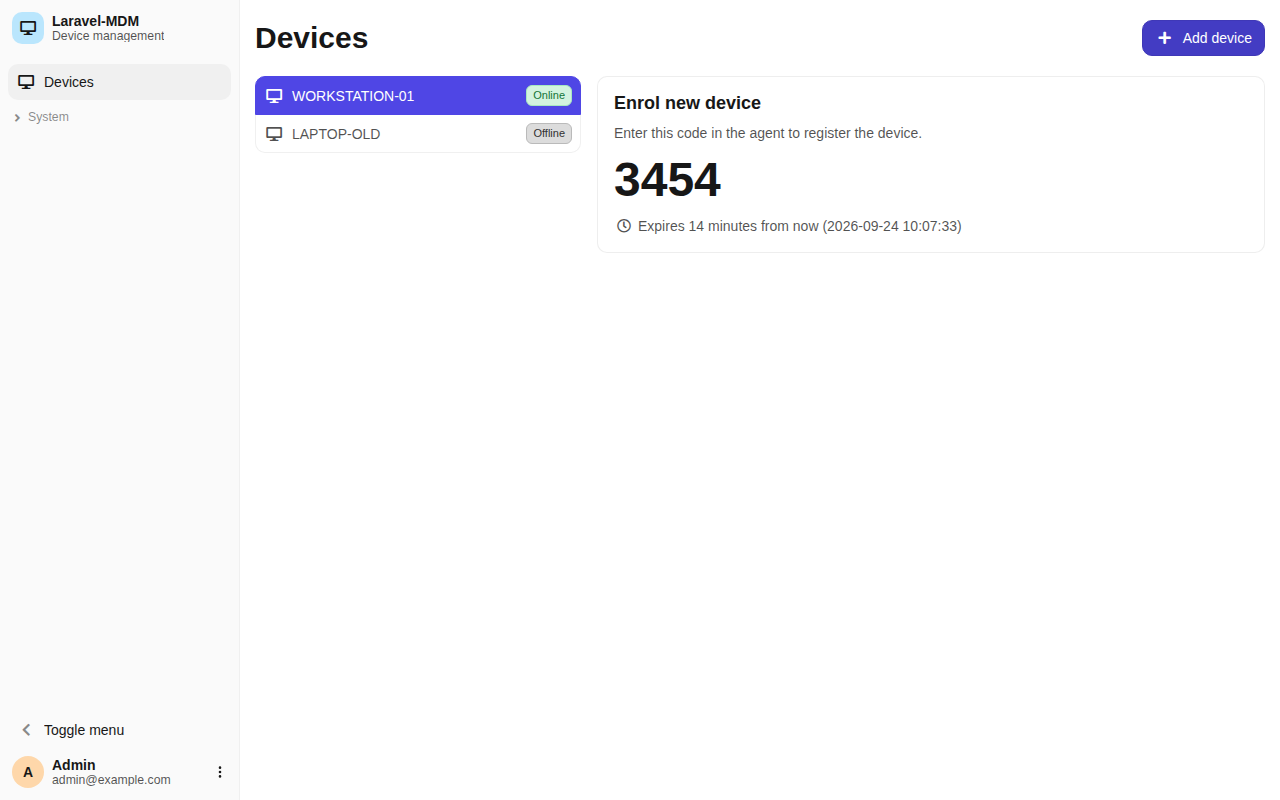
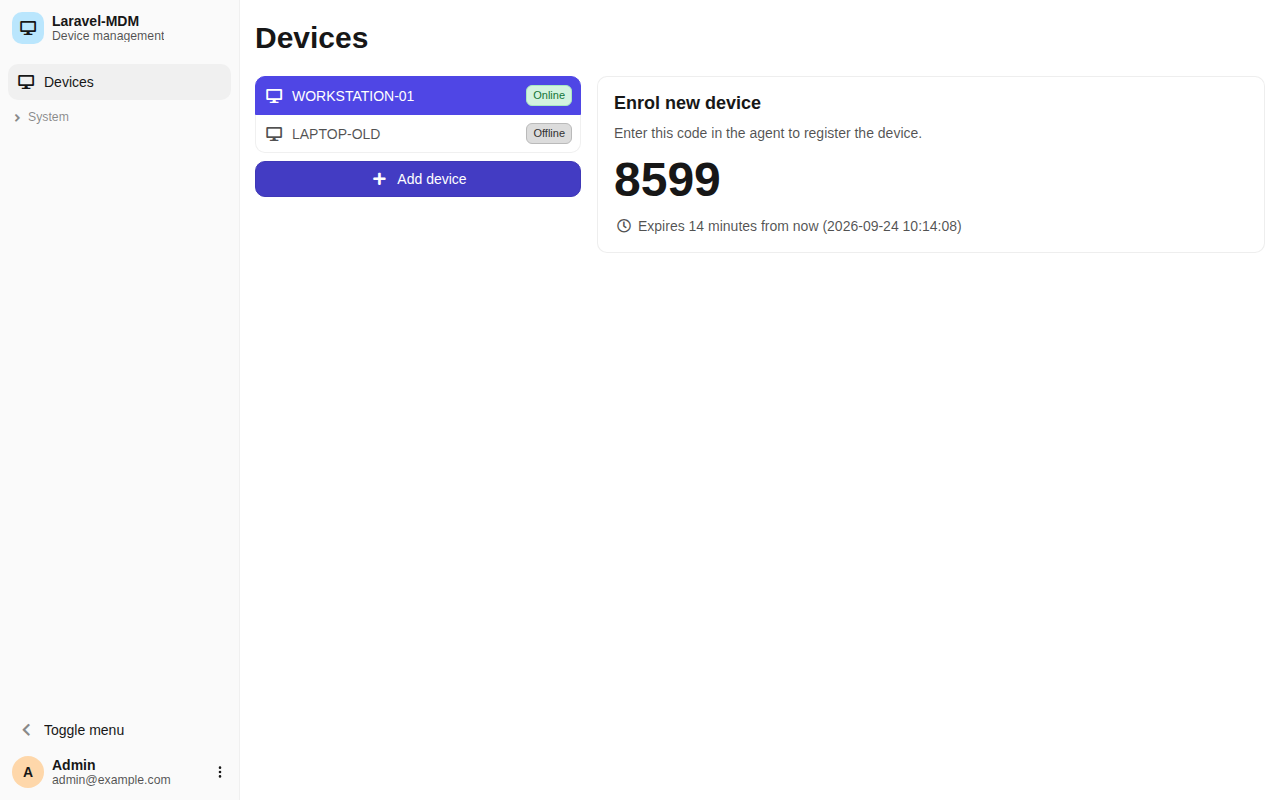
Move the Add device button below the device list
The button now sits under the list it adds to (full width), the page
header is hidden on mobile where it was empty. README screenshots
retaken.

Claude-Session: https://claude.ai/code/session_014T3NPF83qJ7TDEeiorwe6F

Changed region(s): [[0.1875, 0.1875, 0.5625, 0.25], [0.875, 0.0, 1.0, 0.0938], [0.7188, 0.2812, 0.75, 0.3125]]

diff --git a/src/laravel/resources/views/livewire/show-devices.blade.php b/src/laravel/resources/views/livewire/show-devices.blade.php
@@ -1,10 +1,7 @@
 <div>
     <div class="container-xl">
-        <div class="page-header">
-            <h1 class="hide-mobile">{{ __('Devices') }}</h1>
-            <button class="btn btn-primary" type="button" wire:click.prevent="$set('addDevice', true)">
-                <i class="fas fa-plus me-2"></i>{{ __('Add device') }}
-            </button>
+        <div class="page-header hide-mobile">
+            <h1>{{ __('Devices') }}</h1>
         </div>
     </div>
 
@@ -26,6 +23,11 @@
                     @empty
                         <div class="list-group-item text-muted">{{ __('No devices enrolled yet.') }}</div>
                     @endforelse
+                </div>
+                <div class="d-grid mt-2">
+                    <button class="btn btn-primary" type="button" wire:click.prevent="$set('addDevice', true)">
+                        <i class="fas fa-plus me-2"></i>{{ __('Add device') }}
+                    </button>
                 </div>
             </div>
 
